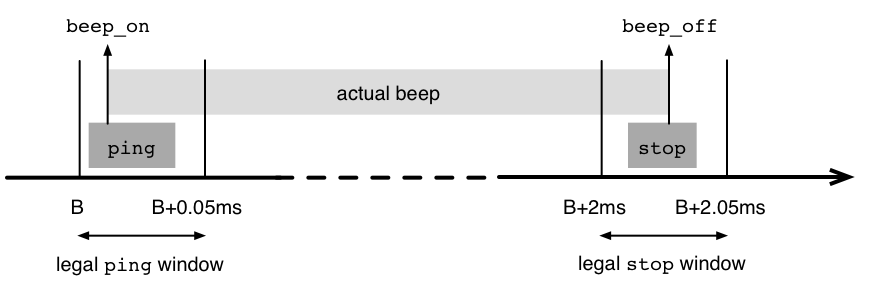
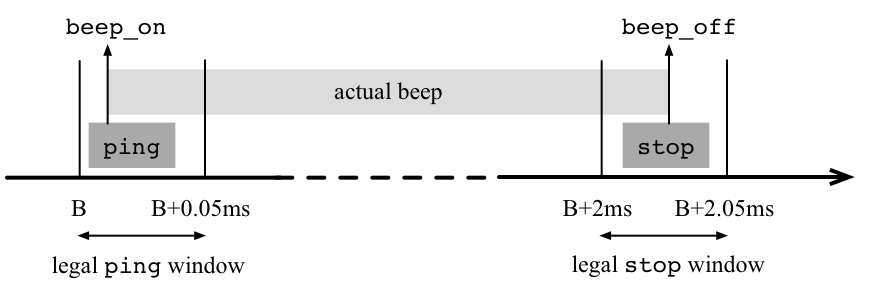
Minor web edits

diff --git a/web/gentle.html b/web/gentle.html
@@ -49,7 +49,7 @@ of the measurements dictate that time-stamps associated with beeps must also be 
 down to the 50 microsecond range. The figure below illustrates the timing windows 
 constraining the involved methods <tt>ping</tt> and stop, and thus, indirectly, the actual 
 beep produced.
-<p><img src="Beep.png" alt="" width="650" height="220" /></p>
+<p><img src="Beep.png" alt="" width="600" height="200" /></p>
 <p>
 Furthermore, the sonar is supposed to sound every 3 seconds, and the deadline for reacting 
 to off-limit measurements is 5 milliseconds. These specifications look as  follows when 
@@ -68,9 +68,9 @@ sonar port alarm critical = <strong>class</strong>
     echo = <strong>before</strong> (millisec 5) <strong>action</strong>
         diff &lt;- tm.sample
         <strong>if</strong> critical diff <strong>then</strong>
-            alarm count
             count := count + 1
-    <strong>result</strong> { interrupt = echo; start = ping }
+            alarm count
+    <strong>result</strong> { interrupt = echo, start = ping }
 
 </pre>
 <p>The header <tt>sonar port alarm critical</tt> here defines function <tt>sonar</tt> to take 
